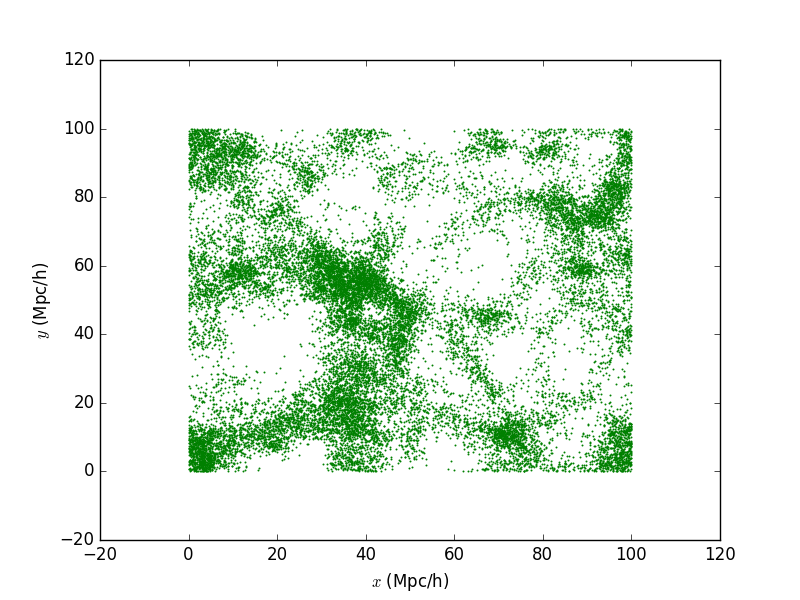
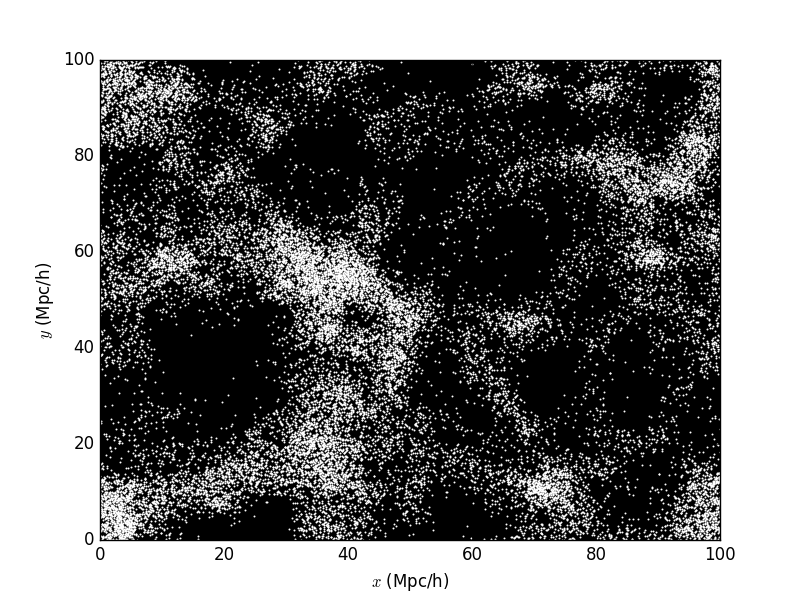
results resubmission

diff --git a/plot.py b/plot.py
@@ -46,29 +46,53 @@ Zeldovich.close()
 ##XZ = plt.array(XZ)
 ##YZ = plt.array(YZ)
 ##
-##plt.scatter(XI, YI, s=2, facecolor='0.5', lw = 0, c='b', marker='o')
+##fig = plt.figure(1)
+##ax = fig.add_subplot(111, axisbg='black')
+##
+##ax.scatter(XI, YI, s=2, facecolor='0.5', lw = 0, c='w', marker='o')
 ##plt.xlabel('$x$ (Mpc/h)')
 ##plt.ylabel('$y$ (Mpc/h)')
+##plt.xlim((0,100))
+##plt.ylim((0,100))
 ##plt.savefig("init100")
 ##plt.clf()
 ##
-##plt.scatter(XR, YR, s=2, facecolor='0.5', lw = 0, c='r', marker='o')
+##ax = fig.add_subplot(111, axisbg='black')
+##ax.scatter(XR, YR, s=2, facecolor='0.5', lw = 0, c='w', marker='o')
 ##plt.xlabel('$x$ (Mpc/h)')
 ##plt.ylabel('$y$ (Mpc/h)')
+##plt.xlim((0,100))
+##plt.ylim((0,100))
 ##plt.savefig("final100")
 ##plt.clf()
 ##
-##plt.scatter(XZ, YZ, s=2, facecolor='0.5', lw = 0, c='g', marker='o')
+##ax = fig.add_subplot(111, axisbg='black')
+##ax.scatter(XZ, YZ, s=2, facecolor='0.5', lw = 0, c='w', marker='o')
 ##plt.xlabel('$x$ (Mpc/h)')
 ##plt.ylabel('$y$ (Mpc/h)')
+##plt.xlim((0,100))
+##plt.ylim((0,100))
 ##plt.savefig("Zeldovich100")
 ##plt.clf()
 ##
-##plt.scatter(XZ, YZ, s=2, facecolor='0.5', lw = 0, c='g', marker='o')
-##plt.scatter(XR, YR, s=2, facecolor='0.5', lw = 0, c='r', marker='o')
+##ax = fig.add_subplot(111, axisbg='black')
+##ax.scatter(XZ, YZ, s=2, facecolor='0.5', lw = 0, c='g', marker='o')
+##ax.scatter(XR, YR, s=2, facecolor='0.5', lw = 0, c='r', marker='o')
 ##plt.xlabel('$x$ (Mpc/h)')
 ##plt.ylabel('$y$ (Mpc/h)')
-##plt.savefig("resultsoverlap100")
+##plt.xlim((0,100))
+##plt.ylim((0,100))
+##plt.savefig("RZoverlap100")
+##plt.clf()
+##
+##ax = fig.add_subplot(111, axisbg='black')
+##ax.scatter(XR, YR, s=2, facecolor='0.5', lw = 0, c='g', marker='o')
+##ax.scatter(XZ, YZ, s=2, facecolor='0.5', lw = 0, c='r', marker='o')
+##plt.xlabel('$x$ (Mpc/h)')
+##plt.ylabel('$y$ (Mpc/h)')
+##plt.xlim((0,100))
+##plt.ylim((0,100))
+##plt.savefig("ZRoverlap100")
 ##plt.clf()
 
 i = np.random.choice(np.arange(100**3),10000,replace=False)
